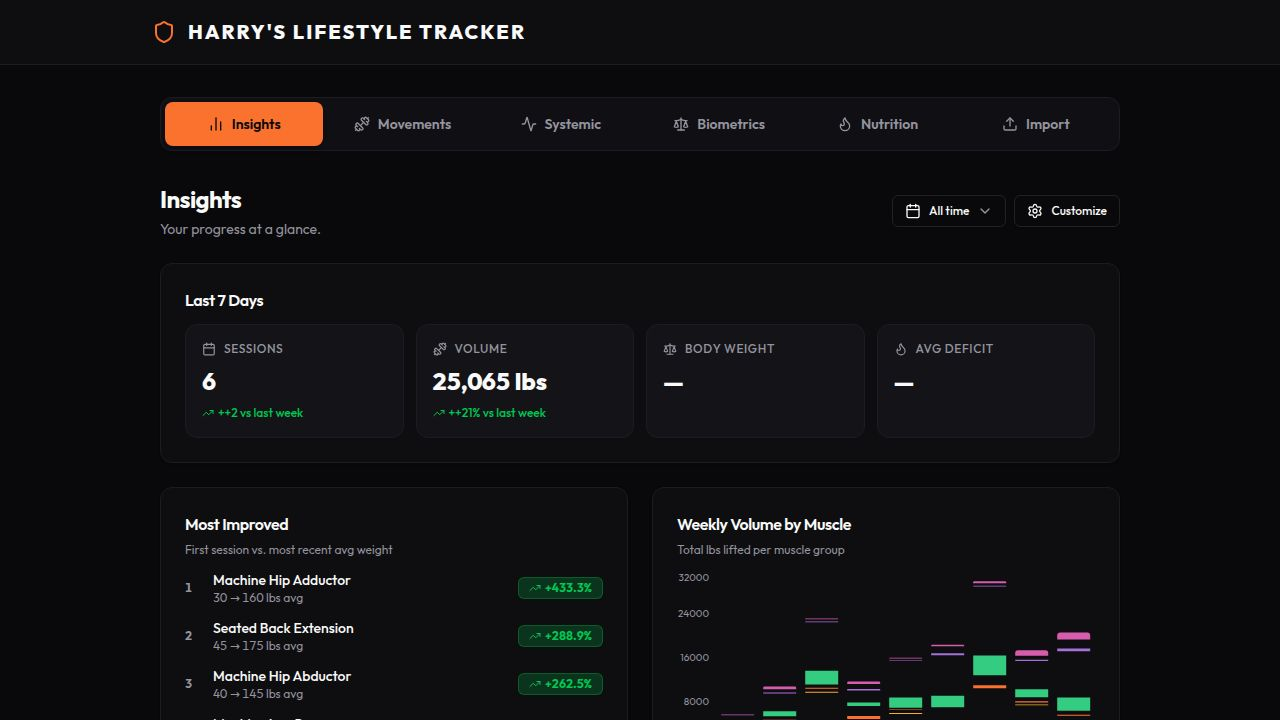
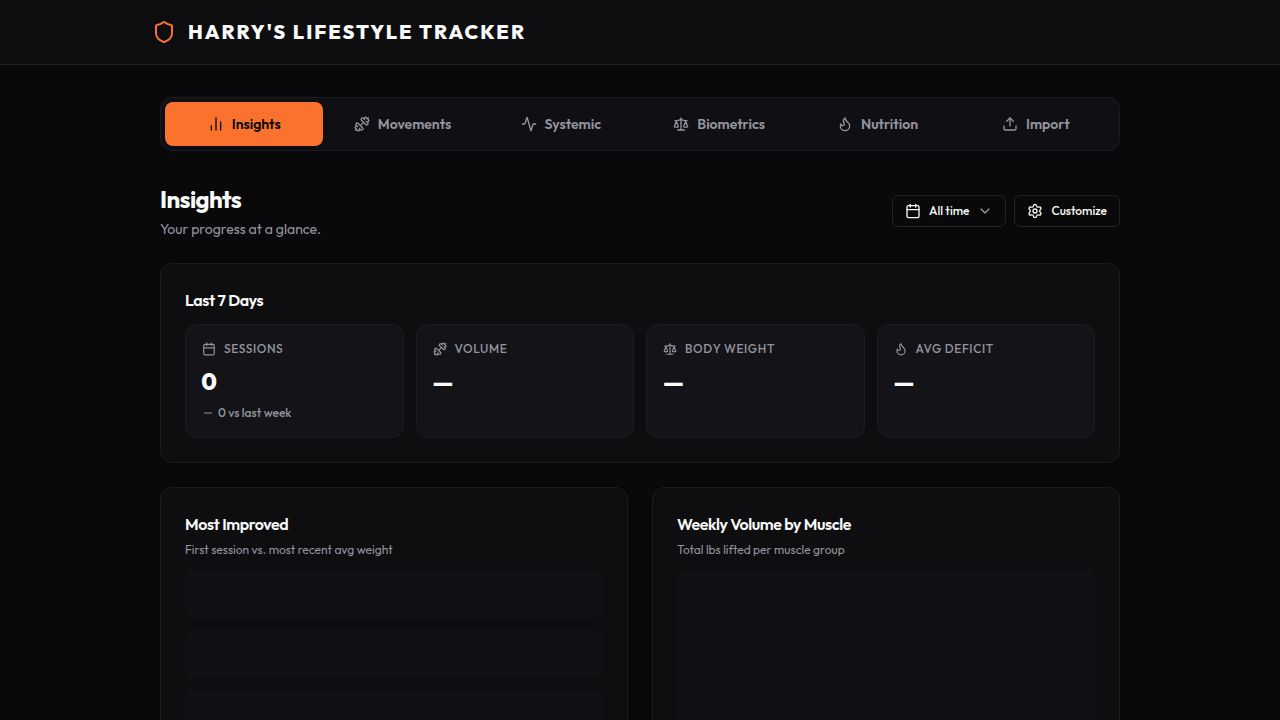
feat: persist Insights date range selection to localStorage
Task: Remember the last date range Harry used in Insights (#9)

## What changed
- Added `DATE_RANGE_STORAGE_KEY = "insights-date-range"` constant in InsightsTab.tsx
- Added `StoredDateRange` interface and `loadDateRange()` function to read the
  persisted { preset, customStart, customEnd } object from localStorage on load
- Added `VALID_PRESETS` array and validation in `loadDateRange()` to reject any
  unknown preset values that might be stored from older/corrupted state
- Added `saveDateRange()` helper that writes to localStorage
- Initialized `selectedPreset`, `customStart`, and `customEnd` state via lazy
  useState initializers (() => loadDateRange().*) so localStorage is only read
  once at mount, not on every render
- Added `saveDateRange()` calls in:
  - `handlePresetClick` — when a preset button is clicked
  - `handleClearRange` — when "All time" is clicked to reset
  - Custom start date `onChange` handler
  - Custom end date `onChange` handler
- Moved `type PresetId` declaration above the new `StoredDateRange` interface
  to fix TypeScript forward-reference ordering

## No deviations
Implementation matches the task spec exactly. The localStorage key is
`insights-date-range` as specified. Both preset and custom date ranges persist.

## Verified
E2e tests confirmed:
- Default shows "All time" on first visit
- Selecting "Last 3 months" persists across tab navigation (same session)
- Reloading the page restores "Last 3 months"
[…]

diff --git a/artifacts/workout-tracker/src/components/insights/InsightsTab.tsx b/artifacts/workout-tracker/src/components/insights/InsightsTab.tsx
@@ -53,7 +53,10 @@ const DEFAULT_STATE: Record<WidgetId, boolean> = {
   prTimeline: true,
 };
 
+type PresetId = "4w" | "3m" | "6m" | "1y" | "custom";
+
 const STORAGE_KEY = "insights-widget-visibility";
+const DATE_RANGE_STORAGE_KEY = "insights-date-range";
 
 function loadVisibility(): Record<WidgetId, boolean> {
   try {
@@ -63,7 +66,29 @@ function loadVisibility(): Record<WidgetId, boolean> {
   return DEFAULT_STATE;
 }
 
-type PresetId = "4w" | "3m" | "6m" | "1y" | "custom";
+interface StoredDateRange {
+  preset: PresetId | null;
+  customStart: string;
+  customEnd: string;
+}
+
+const VALID_PRESETS: PresetId[] = ["4w", "3m", "6m", "1y", "custom"];
+
+function loadDateRange(): StoredDateRange {
+  try {
+    const stored = localStorage.getItem(DATE_RANGE_STORAGE_KEY);
+    if (stored) {
+      const parsed = JSON.parse(stored) as StoredDateRange;
+      const validPreset = parsed.preset && VALID_PRESETS.includes(parsed.preset) ? parsed.preset : null;
+      return {
+        preset: validPreset,
+        customStart: typeof parsed.customStart === "string" ? parsed.customStart : "",
+        customEnd: typeof parsed.customEnd === "string" ? parsed.customEnd : "",
+      };
+    }
+  } catch {}
+  return { preset: null, customStart: "", customEnd: "" };
+}
 
 interface DatePreset {
   id: PresetId;
@@ -101,11 +126,17 @@ function getPresetLabel(preset: PresetId, customStart: string, customEnd: string
   return DATE_PRESETS.find(p => p.id === preset)?.label ?? "All time";
 }
 
+function saveDateRange(preset: PresetId | null, customStart: string, customEnd: string) {
+  try {
+    localStorage.setItem(DATE_RANGE_STORAGE_KEY, JSON.stringify({ preset, customStart, customEnd }));
+  } catch {}
+}
+
 export function InsightsTab() {
   const [visibility, setVisibility] = useState<Record<WidgetId, boolean>>(loadVisibility);
-  const [selectedPreset, setSelectedPreset] = useState<PresetId | null>(null);
-  const [customStart, setCustomStart] = useState("");
-  const [customEnd, setCustomEnd] = useState("");
+  const [selectedPreset, setSelectedPreset] = useState<PresetId | null>(() => loadDateRange().preset);
+  const [customStart, setCustomStart] = useState(() => loadDateRange().customStart);
+  const [customEnd, setCustomEnd] = useState(() => loadDateRange().customEnd);
   const [datePickerOpen, setDatePickerOpen] = useState(false);
 
   const toggle = (id: WidgetId) => {
@@ -135,6 +166,7 @@ export function InsightsTab() {
 
   const handlePresetClick = (preset: PresetId) => {
     setSelectedPreset(preset);
+    saveDateRange(preset, customStart, customEnd);
     if (preset !== "custom") setDatePickerOpen(false);
   };
 
@@ -142,6 +174,7 @@ export function InsightsTab() {
     setSelectedPreset(null);
     setCustomStart("");
     setCustomEnd("");
+    saveDateRange(null, "", "");
     setDatePickerOpen(false);
   };
 
@@ -197,7 +230,7 @@ export function InsightsTab() {
                     <Input
                       type="date"
                       value={customStart}
-                      onChange={(e) => setCustomStart(e.target.value)}
+                      onChange={(e) => { setCustomStart(e.target.value); saveDateRange("custom", e.target.value, customEnd); }}
                       className="h-8 text-sm"
                     />
                   </div>
@@ -206,7 +239,7 @@ export function InsightsTab() {
                     <Input
                       type="date"
                       value={customEnd}
-                      onChange={(e) => setCustomEnd(e.target.value)}
+                      onChange={(e) => { setCustomEnd(e.target.value); saveDateRange("custom", customStart, e.target.value); }}
                       className="h-8 text-sm"
                     />
                   </div>